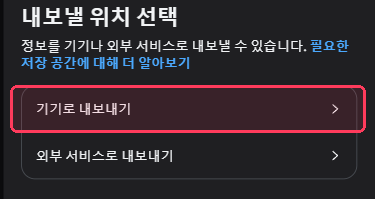
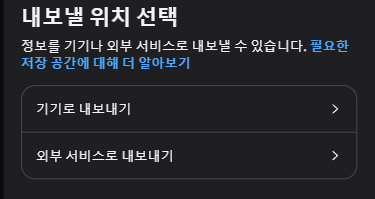
fix: 업로드 가이드 점선 하이라이트 위치 정밀 수정
- 가이드 이미지(step2~6) 빨간 채움 제거 → 깃 원본 클린 이미지로 교체
- step3: 내 정보 내보내기 행만 정확히 감싸도록 top/height 조정
- step4: 내보내기 만들기 버튼에 맞게 top 75→82% 수정
- step6: 내보내기 시작 버튼에 맞게 top 84→81% 수정
- index.html 추가 (marching ants CSS 포함)

Claude-Session: https://claude.ai/code/session_015MVDmGmBhYLRwK6QP5rasP

Changed region(s): [[0.0293, 0.4221, 0.9973, 0.6935]]

diff --git a/ui_kits/app/UploadScreen.jsx b/ui_kits/app/UploadScreen.jsx
@@ -1,43 +1,53 @@
 (function () {
-const { useState, useRef } = React;
+const { useState, useRef, useEffect } = React;
 
 const INSTA_STEPS = [
   {
     num: 1,
     title: "계정 센터 열기",
     desc: "인스타그램에서 ☰ → '설정 및 개인정보'를 탭해요. 화면 위쪽 '계정 센터'를 탭해요.",
-    img: "./guide_imgs/insta_step1_settings.png",
+    img: "/ui_kits/app/guide_imgs/insta_step1_settings.png",
+    highlights: [{ top: "4%", left: "2%", width: "96%", height: "88%", borderRadius: 8 }],
   },
   {
     num: 2,
     title: "'내 정보 및 권한' 탭하기",
     desc: "계정 설정 화면에서 '내 정보 및 권한'을 탭해요.",
-    img: "./guide_imgs/insta_step2_account.png",
+    img: "/ui_kits/app/guide_imgs/insta_step2_account.png",
+    highlights: [{ top: "43%", left: "2%", width: "96%", height: "21%", borderRadius: 8 }],
   },
   {
     num: 3,
     title: "'내 정보 내보내기' 탭하기",
     desc: "'내 정보 내보내기'를 탭해요. 바로 아래 나오는 '내보내기 만들기' 버튼을 탭해요.",
-    img: "./guide_imgs/insta_step3_myinfo.png",
+    img: "/ui_kits/app/guide_imgs/insta_step3_myinfo.png",
+    highlights: [{ top: "40%", left: "2%", width: "96%", height: "21%", borderRadius: 8 }],
   },
   {
     num: 4,
     title: "계정 선택하기",
     desc: "'내보내기 만들기' 팝업이 뜨면 버튼을 탭해요. 계정 선택 화면에서 내 계정을 선택해요.",
-    img: "./guide_imgs/insta_step4_export.png",
+    img: "/ui_kits/app/guide_imgs/insta_step4_export.png",
+    highlights: [{ top: "82%", left: "4%", width: "92%", height: "16%", borderRadius: 14 }],
   },
   {
     num: 5,
     title: "'기기로 내보내기' 선택",
     desc: "내보낼 위치 선택 화면에서 '기기로 내보내기'를 탭해요.",
-    img: "./guide_imgs/insta_step5_location.png",
+    img: "/ui_kits/app/guide_imgs/insta_step5_location.png",
+    highlights: [{ top: "43%", left: "2%", width: "96%", height: "23%", borderRadius: 8 }],
   },
   {
     num: 6,
     title: "형식 JSON · 기간 선택",
     desc: "'정보 맞춤 설정'에서 '메시지'만 체크하고 나머지는 해제해요. '기간'을 원하는 범위로, '형식'을 JSON으로 바꾼 뒤 '내보내기 시작'을 탭해요.",
     tip: "JSON 꼭 선택해야 해요! 기간은 뭐든 상관없어요",
-    img: "./guide_imgs/insta_step6_config.svg",
+    img: "/ui_kits/app/guide_imgs/insta_step6_config.png",
+    highlights: [
+      { top: "16%", left: "2%", width: "96%", height: "12%", borderRadius: 8 },
+      { top: "29%", left: "2%", width: "96%", height: "12%", borderRadius: 8 },
+      { top: "81%", left: "3%", width: "94%", height: "11%", borderRadius: 12 },
+    ],
   },
   {
     num: 7,
@@ -48,12 +58,23 @@ const INSTA_STEPS = [
   },
 ];
 
+// 마운트 시 모든 이미지 미리 로드
+const IMG_SRCS = INSTA_STEPS.map(s => s.img).filter(Boolean);
+IMG_SRCS.forEach(src => { const i = new Image(); i.src = src; });
+
 function UploadScreen({ onNavigate, appData, setAppData }) {
   const { AppShell } = window;
   const [current, setCurrent] = useState(0);
+  const [imgKey, setImgKey] = useState(0);
   const [files, setFiles] = useState([]);
   const [error, setError] = useState("");
+  const [warning, setWarning] = useState("");
   const fileRef = useRef();
+
+  function goTo(idx) {
+    setCurrent(idx);
+    setImgKey(k => k + 1);
+  }
 
   const step = INSTA_STEPS[current];
   const total = INSTA_STEPS.length;
@@ -65,7 +86,12 @@ function UploadScreen({ onNavigate, appData, setAppData }) {
       return !n.endsWith(".zip") && !n.endsWith(".json");
     });
     if (invalid.length > 0) { setError("zip 또는 json 파일만 선택해주세요"); return; }
-    setError("");
+    const large = newFiles.find(f => f.size > 100 * 1024 * 1024);
+    if (large) {
+      setWarning(`파일 크기가 ${(large.size / 1024 / 1024).toFixed(0)}MB예요. 사진·영상이 포함돼 처리에 시간이 걸릴 수 있어요.`);
+    } else {
+      setWarning("");
+    }
     setFiles(prev => {
       const existing = new Set(prev.map(f => f.name));
       return [...prev, ...newFiles.filter(f => !existing.has(f.name))];
@@ -105,7 +131,7 @@ function UploadScreen({ onNavigate, appData, setAppData }) {
         {INSTA_STEPS.map((_, i) => (
           <div
             key={i}
-            onClick={() => setCurrent(i)}
+            onClick={() => goTo(i)}
             style={{
               flex: 1, height: 3, borderRadius: 99, cursor: "pointer",
               background: i <= current
@@ -134,17 +160,32 @@ function UploadScreen({ onNavigate, appData, setAppData }) {
             background: "rgba(240,148,51,0.1)", border: "1px solid rgba(240,148,51,0.2)",
             borderRadius: 12, fontSize: 13, color: "#f09433", lineHeight: 1.6,
           }}>
-            💡 {step.tip}
+            {step.tip}
           </div>
         )}
 
         {step.img && (
-          <div style={{ borderRadius: 16, overflow: "hidden", border: "1.5px solid rgba(255,255,255,0.15)", background: "#111" }}>
+          <div style={{ borderRadius: 16, overflow: "hidden", border: "1.5px solid rgba(255,255,255,0.12)", background: "#111", position: "relative" }}>
             <img
+              key={imgKey}
               src={step.img}
               alt={step.title}
-              style={{ width: "100%", display: "block", maxHeight: 220, objectFit: "contain" }}
+              className="anim-fade"
+              style={{ width: "100%", display: "block", height: "auto" }}
             />
+            {(step.highlights || []).map((h, i) => (
+              <div
+                key={i}
+                className="highlight-overlay"
+                style={{
+                  top: h.top,
+                  left: h.left,
+                  width: h.width,
+                  height: h.height,
+                  borderRadius: h.borderRadius || 8,
+                }}
+              />
+            ))}
           </div>
         )}
 
@@ -178,13 +219,14 @@ function UploadScreen({ onNavigate, appData, setAppData }) {
                 color: "#e1306c",
               }}
             >
-              {files.length === 0 ? "📂  zip 파일 선택하기" : `+ 파일 추가 (현재 ${files.length}개)`}
+              {files.length === 0 ? "zip 파일 선택하기" : `+ 파일 추가 (현재 ${files.length}개)`}
             </button>
             <input
               ref={fileRef} type="file" accept=".zip,.json" multiple style={{ display: "none" }}
               onChange={e => { handleAddFiles(Array.from(e.target.files)); e.target.value = ""; }}
             />
-            {error && <div style={{ fontSize: 12, color: "#e1306c" }}>⚠ {error}</div>}
+            {warning && <div style={{ fontSize: 12, color: "#f09433" }}>{warning}</div>}
+            {error && <div style={{ fontSize: 12, color: "#e1306c" }}>{error}</div>}
           </div>
         )}
       </div>
@@ -192,7 +234,7 @@ function UploadScreen({ onNavigate, appData, setAppData }) {
       {/* 네비게이션 버튼 */}
       <div style={{ display: "flex", gap: 10, marginTop: "auto" }}>
         <button
-          onClick={() => setCurrent(c => Math.max(0, c - 1))}
+          onClick={() => goTo(Math.max(0, current - 1))}
           disabled={current === 0}
           style={{
             flex: 1, padding: "14px",
@@ -206,7 +248,7 @@ function UploadScreen({ onNavigate, appData, setAppData }) {
 
         {!isLast ? (
           <button
-            onClick={() => setCurrent(c => c + 1)}
+            onClick={() => goTo(current + 1)}
             style={{
               flex: 2, padding: "14px",
               background: "linear-gradient(135deg, #f09433, #e1306c)",

diff --git a/index.html b/index.html
@@ -1,0 +1,86 @@
+<!DOCTYPE html>
+<html lang="ko">
+<head>
+<meta charset="UTF-8" />
+<meta name="viewport" content="width=device-width, initial-scale=1.0" />
+<meta name="theme-color" content="#e1306c" />
+<meta name="apple-mobile-web-app-capable" content="yes" />
+<meta name="apple-mobile-web-app-status-bar-style" content="default" />
+<title>최애친구랭킹</title>
+<link rel="stylesheet" href="/styles.css">
+<script src="https://unpkg.com/react@18.3.1/umd/react.development.js" integrity="sha384-hD6/rw4ppMLGNu3tX5cjIb+uRZ7UkRJ6BPkLpg4hAu/6onKUg4lLsHAs9EBPT82L" crossorigin="anonymous"></script>
+<script src="https://unpkg.com/react-dom@18.3.1/umd/react-dom.development.js" integrity="sha384-u6aeetuaXnQ38mYT8rp6sbXaQe3NL9t+IBXmnYxwkUI2Hw4bsp2Wvmx4yRQF1uAm" crossorigin="anonymous"></script>
+<script src="https://unpkg.com/@babel/standalone@7.29.0/babel.min.js" integrity="sha384-m08KidiNqLdpJqLq95G/LEi8Qvjl/xUYll3QILypMoQ65QorJ9Lvtp2RXYGBFj1y" crossorigin="anonymous"></script>
+<style>
+  * { box-sizing: border-box; }
+  body { margin: 0; background: var(--surface-canvas); }
+  a { color: var(--color-primary); }
+  a:hover { color: var(--color-primary-hover); }
+
+  @keyframes fadeSlideUp {
+    from { opacity: 0; transform: translateY(18px); }
+    to   { opacity: 1; transform: translateY(0); }
+  }
+  @keyframes fadeIn {
+    from { opacity: 0; }
+    to   { opacity: 1; }
+  }
+  @keyframes scaleIn {
+    from { opacity: 0; transform: scale(0.96); }
+    to   { opacity: 1; transform: scale(1); }
+  }
+  .anim-slide-up { animation: fadeSlideUp 0.38s cubic-bezier(0.22,1,0.36,1) both; }
+  .anim-slide-up-2 { animation: fadeSlideUp 0.38s 0.08s cubic-bezier(0.22,1,0.36,1) both; }
+  .anim-slide-up-3 { animation: fadeSlideUp 0.38s 0.16s cubic-bezier(0.22,1,0.36,1) both; }
+  .anim-slide-up-4 { animation: fadeSlideUp 0.38s 0.24s cubic-bezier(0.22,1,0.36,1) both; }
+  .anim-fade { animation: fadeIn 0.3s ease both; }
+  .anim-scale { animation: scaleIn 0.3s cubic-bezier(0.22,1,0.36,1) both; }
+
+  @keyframes marchingAnts {
+    to { background-position: 12px 0, -12px 100%, 0 -12px, 100% 12px; }
+  }
+  .highlight-overlay {
+    position: absolute;
+    pointer-events: none;
+    background-image:
+      linear-gradient(90deg, #e1306c 50%, transparent 50%),
+      linear-gradient(90deg, #e1306c 50%, transparent 50%),
+      linear-gradient(0deg, #e1306c 50%, transparent 50%),
+      linear-gradient(0deg, #e1306c 50%, transparent 50%);
+    background-repeat: repeat-x, repeat-x, repeat-y, repeat-y;
+    background-size: 12px 2.5px, 12px 2.5px, 2.5px 12px, 2.5px 12px;
+    background-position: 0 0, 0 100%, 0 0, 100% 0;
+    animation: marchingAnts 0.55s linear infinite;
+  }
+
+  @media (max-width: 700px) {
+    aside { display: none !important; }
+    main {
+      padding: 20px 16px 88px !important;
+      max-width: 100% !important;
+    }
+    header { padding: 10px 16px !important; }
+  }
+</style>
+</head>
+<body>
+<div id="root"></div>
+<script src="https://js.tosspayments.com/v1/payment"></script>
+<script src="https://cdn.jsdelivr.net/npm/html2canvas@1.4.1/dist/html2canvas.min.js"></script>
+<script src="https://cdn.jsdelivr.net/npm/jszip@3.10.1/dist/jszip.min.js"></script>
+<script src="/_ds_bundle.js"></script>
+<script src="/ui_kits/app/DataParser.js"></script>
+<script type="text/babel" src="/ui_kits/app/AppShell.jsx"></script>
+<script type="text/babel" src="/ui_kits/app/GuideModal.jsx"></script>
+<script type="text/babel" src="/ui_kits/app/OnboardingScreen.jsx"></script>
+<script type="text/babel" src="/ui_kits/app/UploadScreen.jsx"></script>
+<script type="text/babel" src="/ui_kits/app/AnalyzingScreen.jsx"></script>
+<script type="text/babel" src="/ui_kits/app/DashboardScreen.jsx"></script>
+<script type="text/babel" src="/ui_kits/app/Top5Screen.jsx"></script>
+<script type="text/babel" src="/ui_kits/app/ShareCardScreen.jsx"></script>
+<script type="text/babel" src="/ui_kits/app/App.jsx"></script>
+<script type="text/babel">
+ReactDOM.createRoot(document.getElementById("root")).render(<App />);
+</script>
+</body>
+</html>
